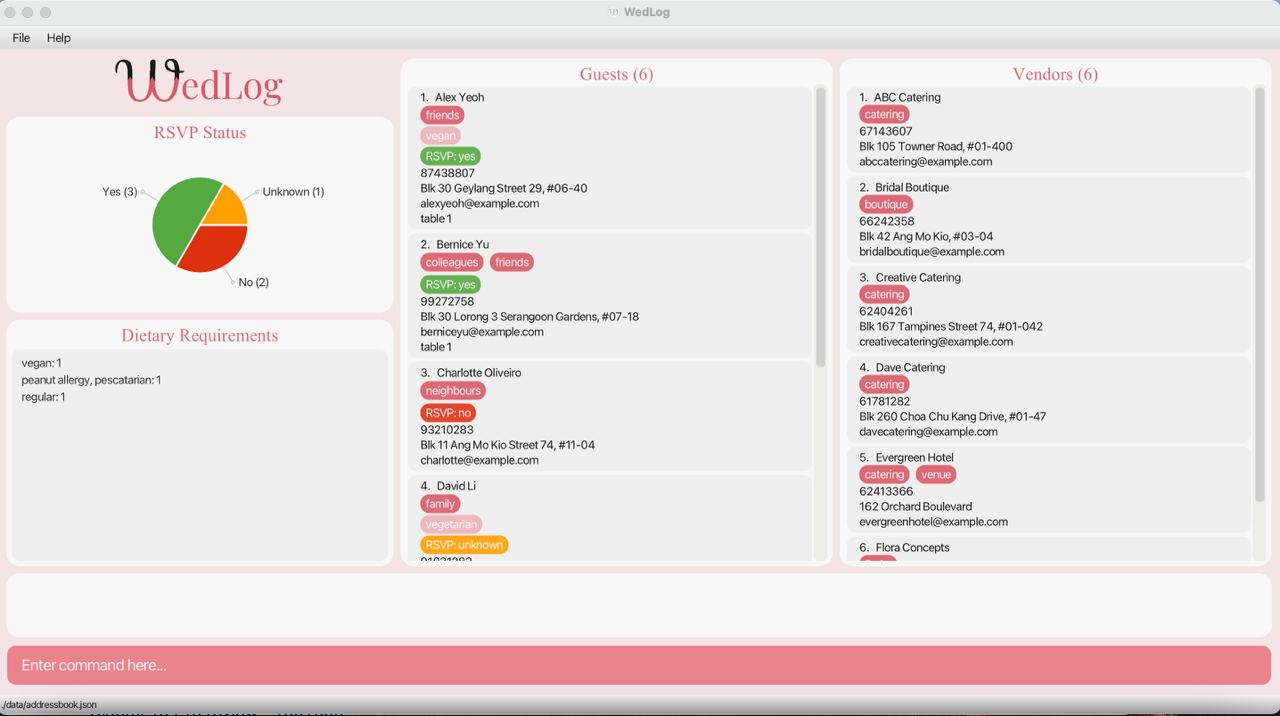
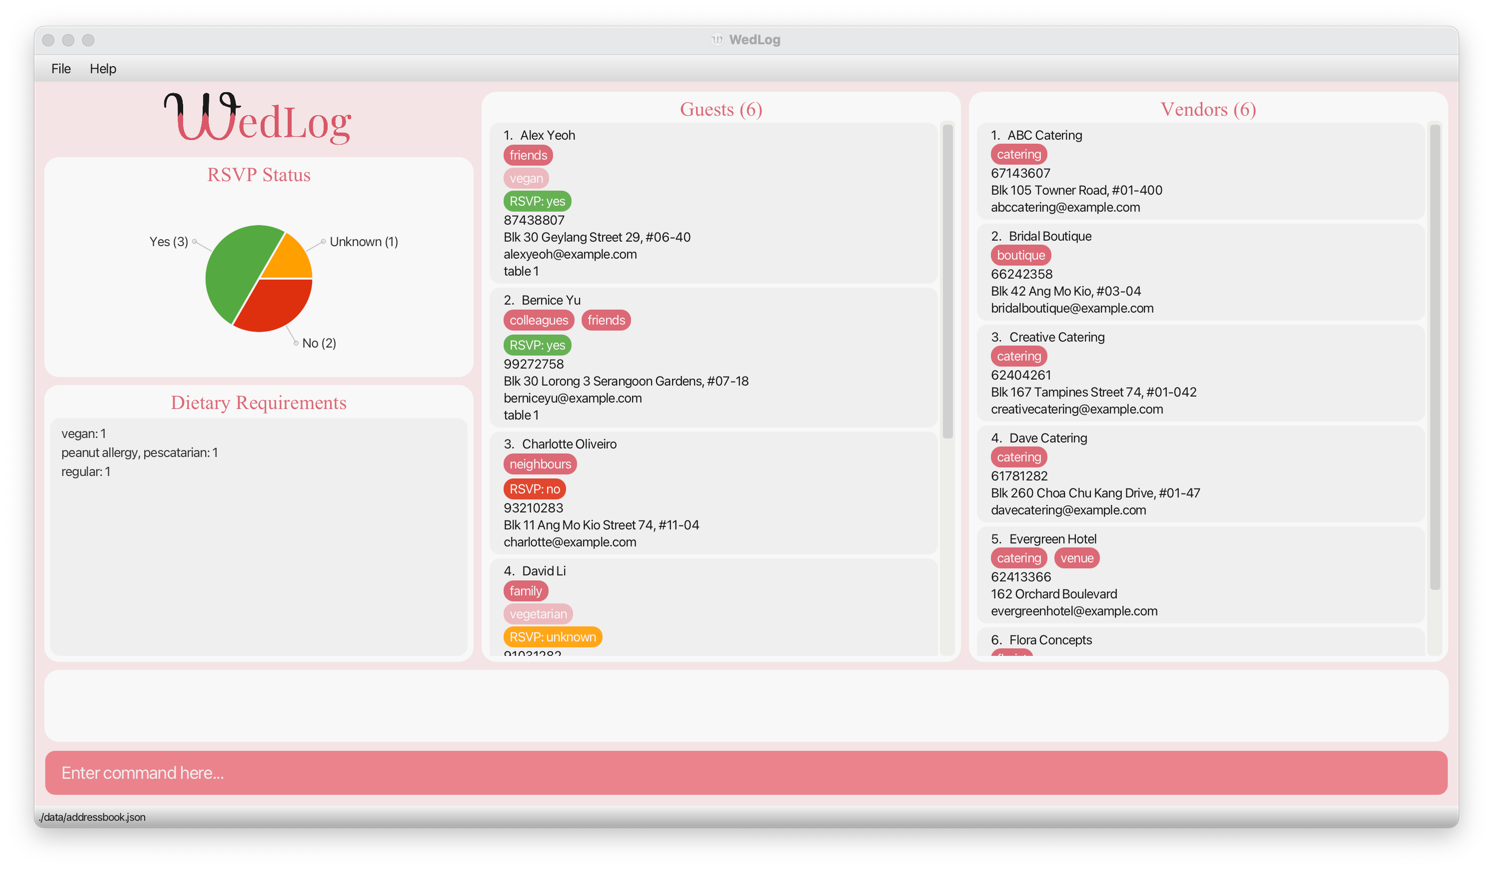
Update master layout and other small changes

diff --git a/docs/DeveloperGuide.md b/docs/DeveloperGuide.md
@@ -25,7 +25,6 @@
     4.4. [Filter Guest and Vendor feature](#4-4-filter-guest-and-vendor-feature)<br>
     4.5. [Edit Guest and Vendor feature](#4-5-edit-guest-and-vendor-feature)<br>
     4.6. [Undo/redo feature](#4-6-undoredo-feature)<br>
-    4.7. [[Proposed] Data archiving](#4-7-proposed-data-archiving)<br>
 5. [Documentation, logging, testing, configuration, dev-ops](#5-documentation-logging-testing-configuration-dev-ops)<br>
 6. [Appendix A: Requirements](#6-appendix-a-requirements)<br>
     6.1. [Product scope](#6-1-product-scope)<br>
@@ -57,7 +56,7 @@
     8.9. [Remove full-screen support for help window (macOS)](#8-9-remove-full-screen-support-for-help-window-macos)<br>
     8.10. [Better colour scheme](#8-10-better-colour-scheme)
 9. [Appendix D: Effort](#9-appendix-d-effort)<br>
-    9.1. [Replacing `Person` with `Guest` and `Vendor` classes](#9-1-replacing-person-with-guest-and-vendor-classes)<br>
+    9.1. [Augmenting `Person` with `Guest` and `Vendor` classes](#9-1-augmenting-person-with-guest-and-vendor-classes)<br>
     9.2. [Altering most fields to become Optional](#9-2-altering-most-fields-to-become-optional)<br>
     9.3. [Enhancing `Guest` class with new parameters](#9-3-enhancing-guest-class-with-new-parameters)<br>
     9.4. [Enhancing the `add` and `edit` commands](#9-4-enhancing-the-add-and-edit-commands)<br>
@@ -1164,7 +1163,7 @@ by changing the relevant style attributes in the `.css` files.
 
 This section documents the effort required to evolve AB3 into WedLog.
 
-### 9.1. Replacing `Person` with `Guest` and `Vendor` classes
+### 9.1. Augmenting `Person` with `Guest` and `Vendor` classes
 
 This involved: 
 * Creating `Guest` and `Vendor` classes.
@@ -1192,13 +1191,13 @@ variations in values.
 ### 9.3. Enhancing `Guest` class with new parameters
 
 We enhanced the `Guest` class to track additional information not covered in the original `Person` class. This involved:
-* Introducing the `TableNumber`, `RsvpStatus` and `DietaryRequirements` classes and integrating them into existing 
+* Introducing the `TableNumber`, `RsvpStatus` and `DietaryRequirement` classes and integrating them into existing 
 features like `add` and `edit`.
 
 This change was challenging as it required lots of in-depth design discussions on how to best represent the information.
   * For `RsvpStatus` class: We debated on the appropriate amount of flexibility to give users, and eventually 
   settled on restricting acceptable values for `RsvpStatus` to `Yes`, `No`, and `Unknown`.
-  * For `DietaryRequirements` class: We initially stored the information as a string, but later adapted it into a 
+  * For `DietaryRequirement` class: We initially stored the information as a string, but later adapted it into a 
   tag system to facilitate UI design and filtering.
 
 <br>
@@ -1233,7 +1232,7 @@ This involved:
 
 <br>
 
-### 9.7. Introducing `RsvpStatus` pie chart and `DietaryRequirements` statistics panel
+### 9.7. Introducing Rsvp Status pie chart and Dietary Requirements statistics panel
 
 This involved creating a new UI design and logic that was not available in AB3.
 

diff --git a/docs/team/keaganpzh.md b/docs/team/keaganpzh.md
@@ -28,9 +28,9 @@ Given below are my contributions to the project.
    * Justification: This feature allows users to easily see the statistics of their guest list. This is useful for the user to see how many guests are coming, not coming, or unsure yet. It is also useful for the user to see the dietary requirements of their guests, so that they can organise the catering accordingly.
    * Highlights: One challenge faced was making each component react and change accordingly after each command execution. This required rebuilding parts of the UI after each command entered. Another challenge was to pass the correct data to the UI components. This required the use of the `RsvpStatistics` and `DietaryRequirementStatistics` classes to store the data.
 
-5. **New Feature**: Reworked the UI to suit the two-list idealogy.
+5. **New Feature**: Reworked the UI to suit the two-list ideology.
    * What it does: displays two lists side by side, one for guests, and one for vendors. The statistics panel with the logo is displayed alongside the two lists.
-   * Justification: originally, AB3 is designed taller than wide. By making WedLog wider than tall, it allows the user to see more information at a glance, and is more suitable for the two-list idealogy.
+   * Justification: originally, AB3 is designed taller than wide. By making WedLog wider than tall, it allows the user to see more information at a glance, and is more suitable for the two-list ideology.
 
 
 ### Code Contributed
@@ -38,13 +38,14 @@ Given below are my contributions to the project.
 
 ### Documentation
 * **User Guide**:
-    * Added section on Quick View panel.
+    * Added section on Rsvp Status panel.
+    * Added section on Dietary Requirements panel.
     * Added descriptions to each feature/command.
 * **Developer Guide**:
     * Updated Glossary and Appendix. [PR #42](https://github.com/AY2324S1-CS2103T-F11-2/tp/pull/42)
     * Created new class diagrams for UI and Guest. [PR #144](https://github.com/AY2324S1-CS2103T-F11-2/tp/pull/144)
-    * Added documentation for tacking of guests and vendors. [PR #144](https://github.com/AY2324S1-CS2103T-F11-2/tp/pull/144)
-    * Added "Planned Enhancements" section.
+    * Added documentation for implementation of tracking of guests and vendors. [PR #144](https://github.com/AY2324S1-CS2103T-F11-2/tp/pull/144)
+    * Added "Planned Enhancements" section. [PR #238](https://github.com/AY2324S1-CS2103T-F11-2/tp/pull/238)
 
 ### Contributions to team tasks
 * **Project Management**:

diff --git a/docs/_markbind/layouts/default.md b/docs/_markbind/layouts/default.md
@@ -27,16 +27,19 @@
       <site-nav>
 * [Home]({{ baseUrl }}/index.html)
 * [User Guide]({{ baseUrl }}/UserGuide.html) :expanded:
-  * [Quick Start]({{ baseUrl }}/UserGuide.html#1-quick-start)
-  * [Features]({{ baseUrl }}/UserGuide.html#2-features)
-  * [FAQ]({{ baseUrl }}/UserGuide.html#3-faq)
-  * [Known Issues]({{ baseUrl }}/UserGuide.html#4-known-issues)
-  * [Future Implementations]({{ baseUrl }}/UserGuide.html#5-future-implementations)
-  * [Command Summary]({{ baseUrl }}/UserGuide.html#6-command-summary)
-  * [Appendix: Acceptable Values for Parameters]({{ baseUrl }}/UserGuide.html#7-appendix-acceptable-values-for-parameters)
+  * [How to Use This Guide]({{ baseUrl }}/UserGuide.html#1-how-to-use-this-guide)
+  * [Getting Started]({{ baseUrl }}/UserGuide.html#2-getting-started)
+  * [Understanding the WedLog Interface]({{ baseUrl }}/UserGuide.html#3-understanding-the-wedlog-interface)
+  * [WedLog Tutorial]({{ baseUrl }}/UserGuide.html#4-wedlog-tutorial)
+  * [Features]({{ baseUrl }}/UserGuide.html#5-features)
+  * [FAQ]({{ baseUrl }}/UserGuide.html#6-faq)
+  * [Known Issues]({{ baseUrl }}/UserGuide.html#7-known-issues)
+  * [Future Implementations]({{ baseUrl }}/UserGuide.html#8-future-implementations)
+  * [Command Summary]({{ baseUrl }}/UserGuide.html#9-command-summary)
+  * [Appendix: Acceptable Values for Parameters]({{ baseUrl }}/UserGuide.html#10-appendix-acceptable-values-for-parameters)
 * [Developer Guide]({{ baseUrl }}/DeveloperGuide.html) :expanded:
   * [Acknowledgements]({{ baseUrl }}/DeveloperGuide.html#1-acknowledgements)
-  * [Setting Up]({{ baseUrl }}/DeveloperGuide.html#2-setting-up-getting-started)
+  * [Setting Up, Getting Started]({{ baseUrl }}/DeveloperGuide.html#2-setting-up-getting-started)
   * [Design]({{ baseUrl }}/DeveloperGuide.html#3-design)
   * [Implementation]({{ baseUrl }}/DeveloperGuide.html#4-implementation)
   * [Documentation, logging, testing, configuration, dev-ops]({{ baseUrl }}/DeveloperGuide.html#5-documentation-logging-testing-configuration-dev-ops)

diff --git a/docs/UserGuide.md b/docs/UserGuide.md
@@ -345,9 +345,9 @@ Let's narrow down the guest list based on specific criteria using the `guest fil
 
 Before we can begin filtering our guests, we must add more guests to the list. Enter each of the following lines one-by-one into WedLog. Each line will add a new guest to the guest list.
 
-`guest add n/Mary Fowl t/friends`
-`guest add n/Bob White`
-`guest add t/friends t/university n/Lily Mae`
+`guest add n/Mary Fowl t/friends` <br>
+`guest add n/Bob White` <br>
+`guest add t/friends t/university n/Lily Mae` <br>
 
 <box type="tip">
 
